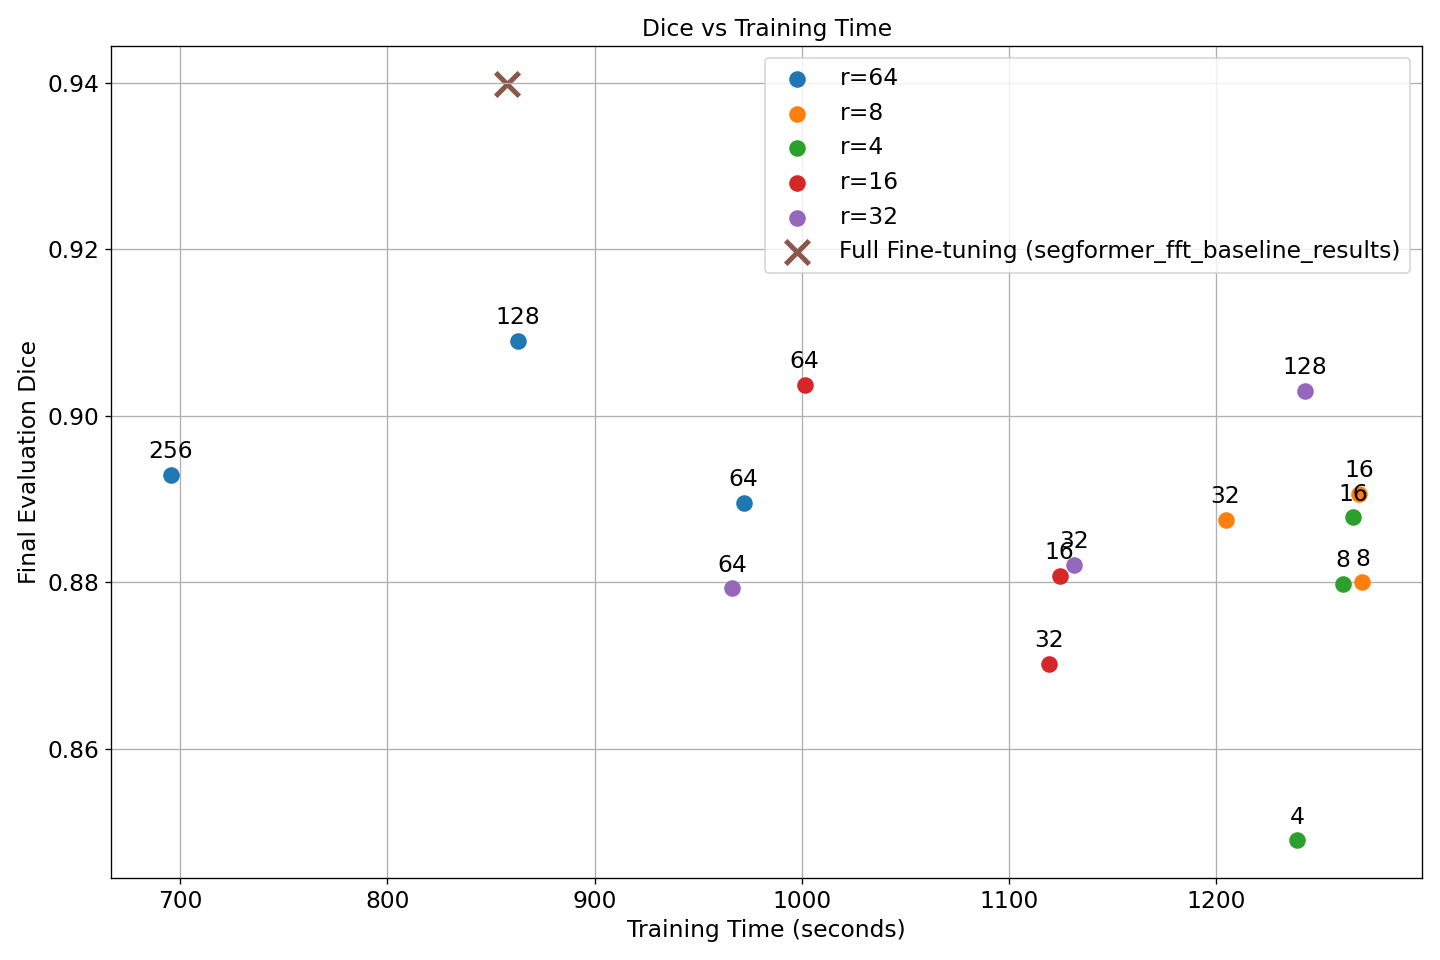
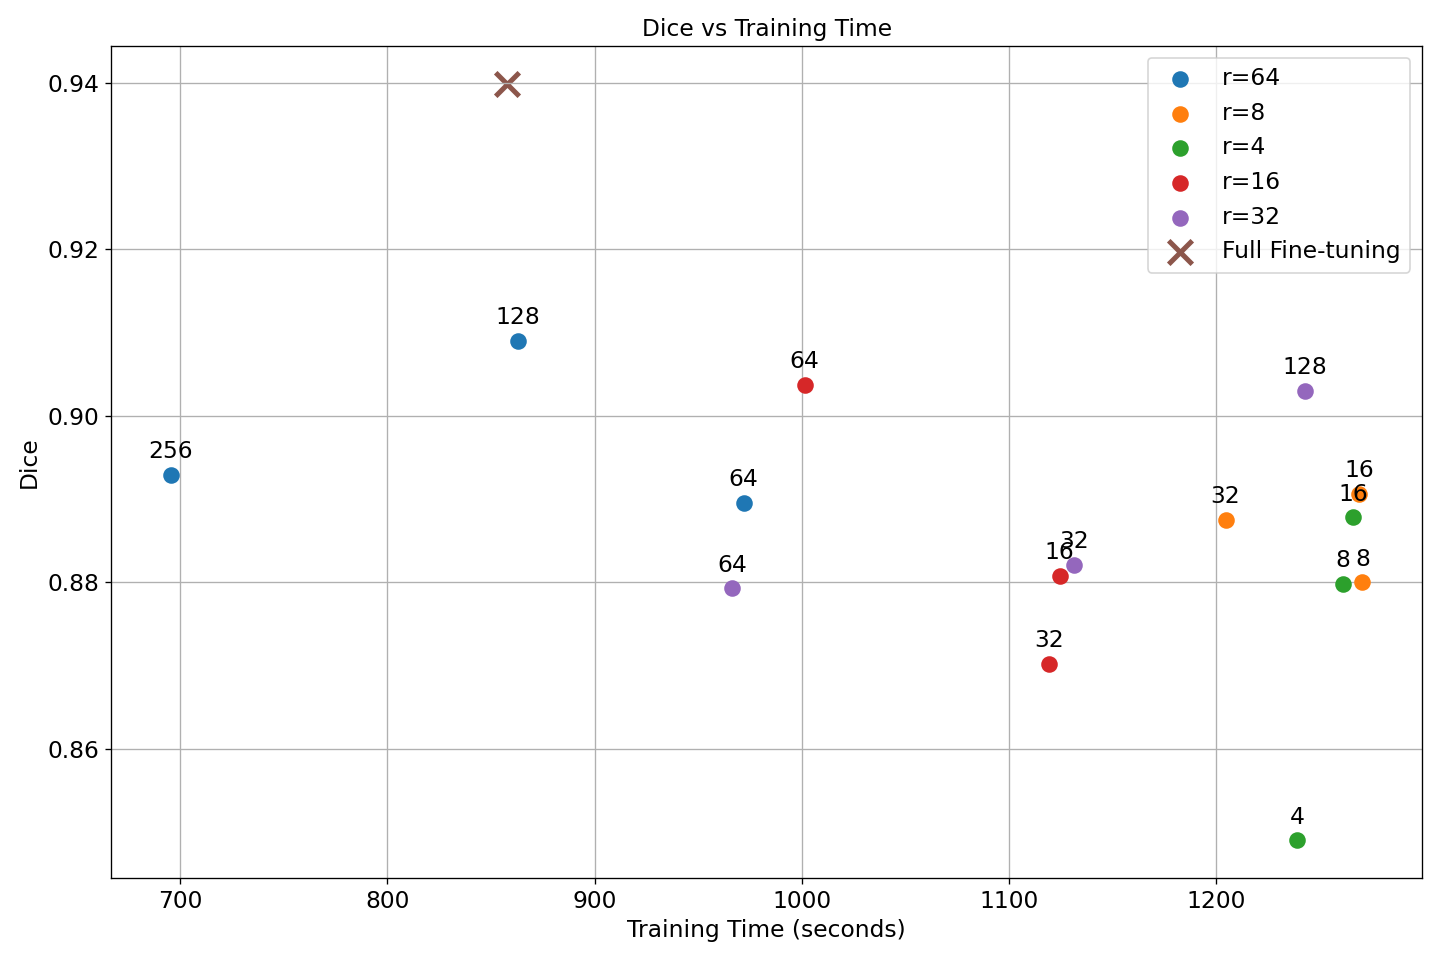
update plot scripts

Changed region(s): [[0.5312, 0.0625, 0.9688, 0.2812], [0.0, 0.375, 0.0312, 0.5938], [0.5938, 0.0625, 0.625, 0.125]]

diff --git a/scripts/extract_metrics.py b/scripts/extract_metrics.py
@@ -201,7 +201,7 @@ def create_plots(metrics_dict: Dict):
 
         ax.set_xlabel(r"LoRA $\alpha$", fontsize=14)
         ax.set_ylabel("Dice", fontsize=14)
-        ax.set_title(r"LoRA $\alpha$ vs Final Evaluation Dice", fontsize=14)
+        ax.set_title(r"LoRA $\alpha$ vs Dice", fontsize=14)
         ax.tick_params(
             axis="both", which="major", labelsize=14
         )  # Increase tick label font size
@@ -322,7 +322,7 @@ def create_plots(metrics_dict: Dict):
                 ax.scatter(
                     training_time,
                     final_dice,
-                    label=f"Full Fine-tuning ({folder_name})",
+                    label=f"Full Fine-tuning",
                     marker="x",
                     s=200,
                     linewidth=3,
@@ -330,7 +330,7 @@ def create_plots(metrics_dict: Dict):
                 # No label for full fine-tuning as requested
 
         ax.set_xlabel("Training Time (seconds)", fontsize=14)
-        ax.set_ylabel("Final Evaluation Dice", fontsize=14)
+        ax.set_ylabel("Dice", fontsize=14)
         ax.set_title("Dice vs Training Time", fontsize=14)
         ax.tick_params(
             axis="both", which="major", labelsize=14
